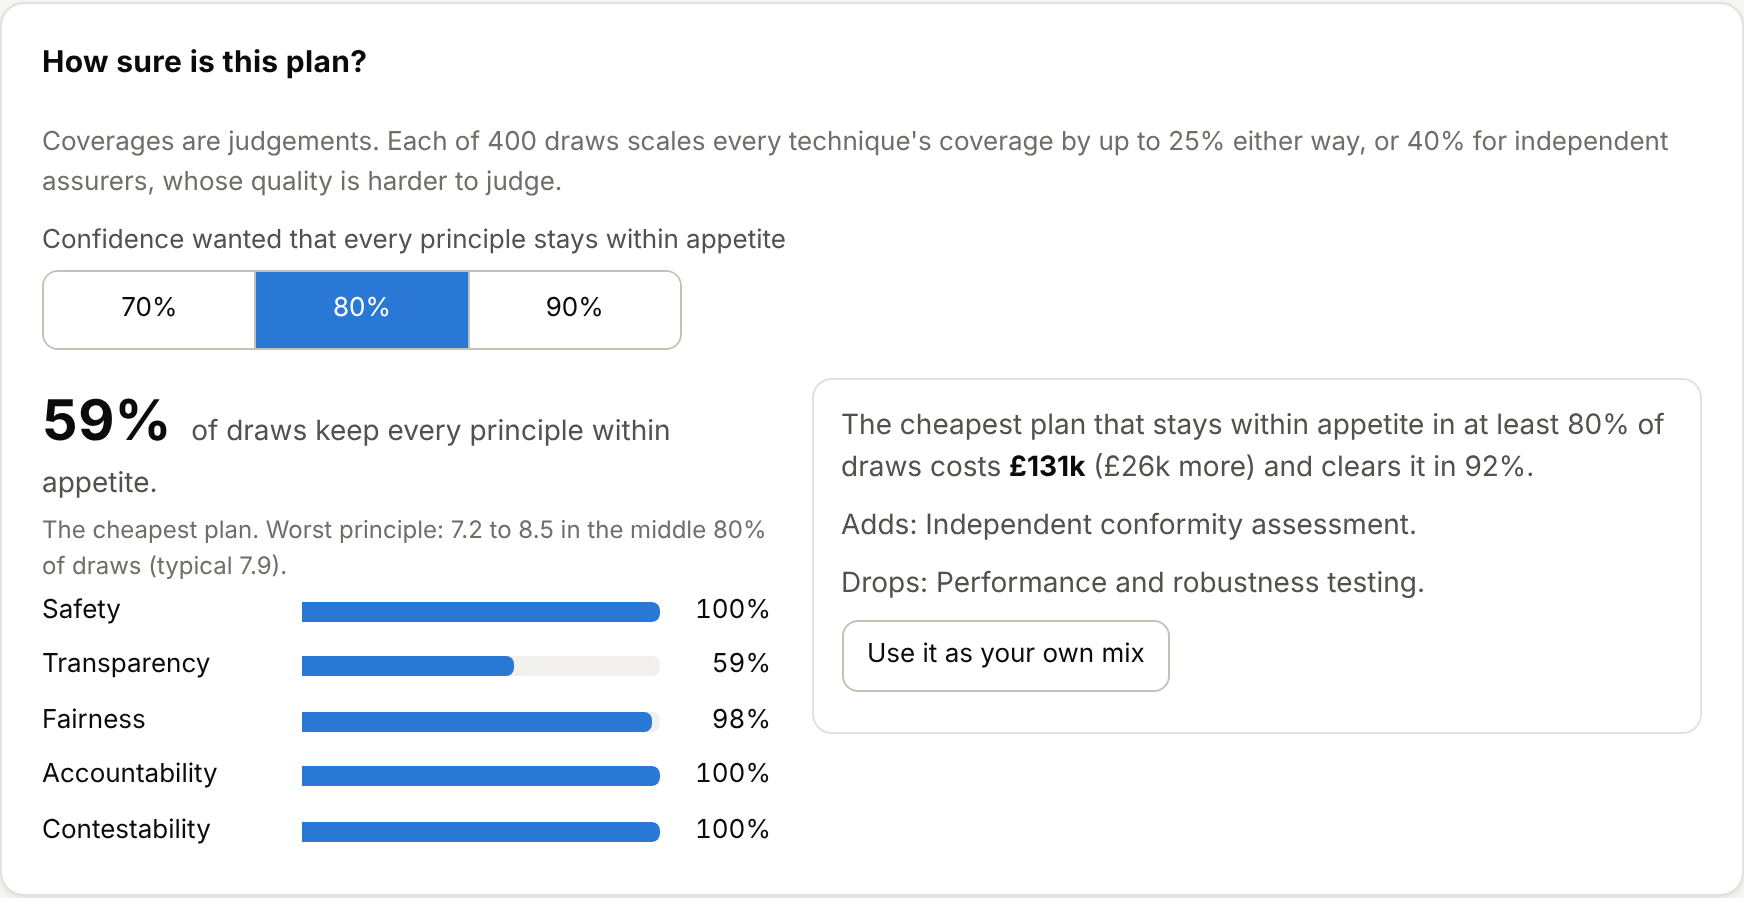
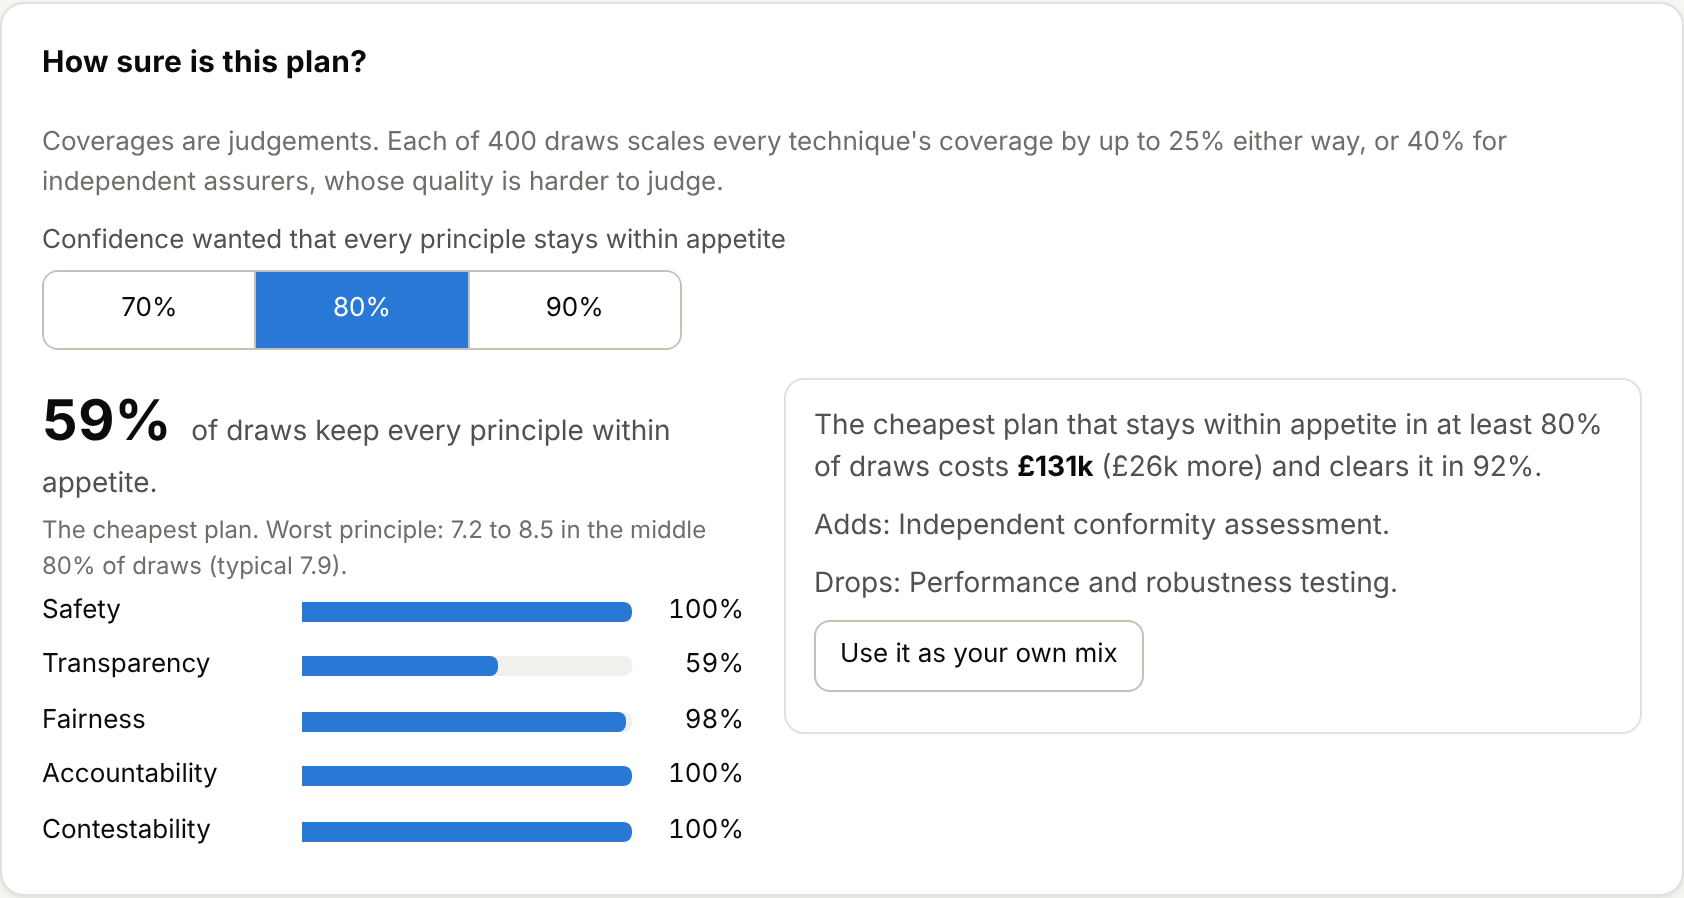
Loop 5: fresh-clone check, wider sidebar so no answer truncates, unused style removed, test imports tidied, counts and screenshots refreshed

diff --git a/app/index.html b/app/index.html
@@ -113,7 +113,7 @@ h1 { font-size: 26px; line-height: 1.2; margin: 0 0 4px; letter-spacing: -0.01em
   font-size: 13px; color: var(--warn-ink); border: 1px solid currentColor; border-radius: 999px;
   padding: 3px 12px; white-space: nowrap;
 }
-.layout { max-width: 1320px; margin: 0 auto; padding: 20px 24px 40px; display: grid; grid-template-columns: 340px minmax(0, 1fr); gap: 20px; align-items: start; }
+.layout { max-width: 1320px; margin: 0 auto; padding: 20px 24px 40px; display: grid; grid-template-columns: 370px minmax(0, 1fr); gap: 20px; align-items: start; }
 .panel { background: var(--surface); border: 1px solid var(--border); border-radius: 12px; box-shadow: var(--shadow); }
 aside.controls { position: sticky; top: 12px; max-height: calc(100vh - 24px); overflow: auto; padding: 16px; }
 aside h2, main h2 { font-size: 15px; margin: 0 0 8px; letter-spacing: 0.01em; }
@@ -122,7 +122,7 @@ fieldset { border: 0; margin: 0 0 18px; padding: 0; min-width: 0; }
 legend { padding: 0; margin-bottom: 8px; }
 .q { display: block; font-size: 13px; color: var(--ink-2); margin: 10px 0 3px; }
 select, input[type="number"] {
-  width: 100%; font: inherit; color: var(--ink); background: var(--surface); border: 1px solid var(--axis);
+  width: 100%; font: inherit; font-size: 14px; color: var(--ink); background: var(--surface); border: 1px solid var(--axis);
   border-radius: 8px; padding: 7px 9px; min-height: 38px;
 }
 select:hover, input[type="number"]:hover { border-color: var(--ink-2); }
@@ -158,7 +158,6 @@ section.card { padding: 18px 20px; }
 .chip { display: inline-flex; align-items: center; gap: 4px; font-size: 12px; font-weight: 600; padding: 2px 8px; border-radius: 999px; border: 1px solid currentColor; white-space: nowrap; }
 .chip.good { color: var(--good-ink); }
 .chip.bad { color: var(--bad-ink); }
-.chip.neutral { color: var(--ink-2); }
 .tabs { display: flex; gap: 6px; flex-wrap: wrap; margin-bottom: 12px; }
 .tabs [role="tab"] {
   font: inherit; font-size: 14px; padding: 7px 14px; border-radius: 999px; border: 1px solid var(--axis);

diff --git a/tests/test_ui.py b/tests/test_ui.py
@@ -1,7 +1,10 @@
 """Browser tests: open the app in headless Chromium and use it like a person would."""
 
+import json
 import time
 import unittest
+
+from assurance_mix import model as M
 
 from helpers import APP
 
@@ -145,8 +148,6 @@ class UiTests(unittest.TestCase):
         with page.expect_download() as dl:
             page.click("#save")
         path = dl.value.path()
-        import json
-        from assurance_mix import model as M
         saved = json.loads(open(path, encoding="utf-8").read())
         self.assertEqual(saved["budget"], 77)
         # the Python companion reads the same file and finds the same cheapest plan

diff --git a/README.md b/README.md
@@ -117,11 +117,11 @@ The parity tests need Node.js and the browser tests need Playwright for Python w
 | Part | Language | Lines | What it does |
 |---|---|---:|---|
 | `app/index.html`: model (between `MODEL START` and `MODEL END`) | JavaScript | 665 | Inherent risk, technique availability, the exhaustive search, frontier, schedule, pilot-to-scale ladder and robustness draws, with the catalogue embedded as one line of JSON |
-| `app/index.html`: interface | JavaScript, HTML, CSS | 1,215 | Controls, summary, plan views, inline SVG charts, catalogue, save, open and share |
+| `app/index.html`: interface | JavaScript, HTML, CSS | 1,216 | Controls, summary, plan views, inline SVG charts, catalogue, save, open and share |
 | `assurance_mix/catalogue.json` | JSON | 261 | The data both versions share: principles, likelihood bands, questions, 16 techniques, examples |
 | `assurance_mix/model.py` | Python | 790 | A line-for-line port of the app's model |
 | `assurance_mix/portfolio.py`, `report.py`, `__main__.py` | Python | 646 | Budget allocation across systems, text and Markdown reports, CSV output and the command line |
-| `tests/` | JavaScript, Python | 929 | 24 Node tests, 42 Python tests (model, parity, portfolio, command line, browser) |
+| `tests/` | JavaScript, Python | 930 | 24 Node tests, 41 Python tests (model, parity, portfolio, command line, browser) |
 | `tools/` | Python | 82 | Catalogue sync and screenshots |
 
 The app has to work as one file opened from disk, so it carries its own copy of the model and the catalogue. Python adds what a browser tab does less well: running a whole inventory, exact budget allocation across systems, longer robustness runs, and files to keep. The parity tests run the app's own model in Node.js and check that both versions give identical answers, number for number: 156 analyses (the six examples and 150 random systems with odd inputs mixed in), 36 pilot-to-scale ladders, 26 robustness runs, 200 hand-built plans and the robustness of 40 more, the random number generator for seven seeds, and the two copies of the catalogue.
